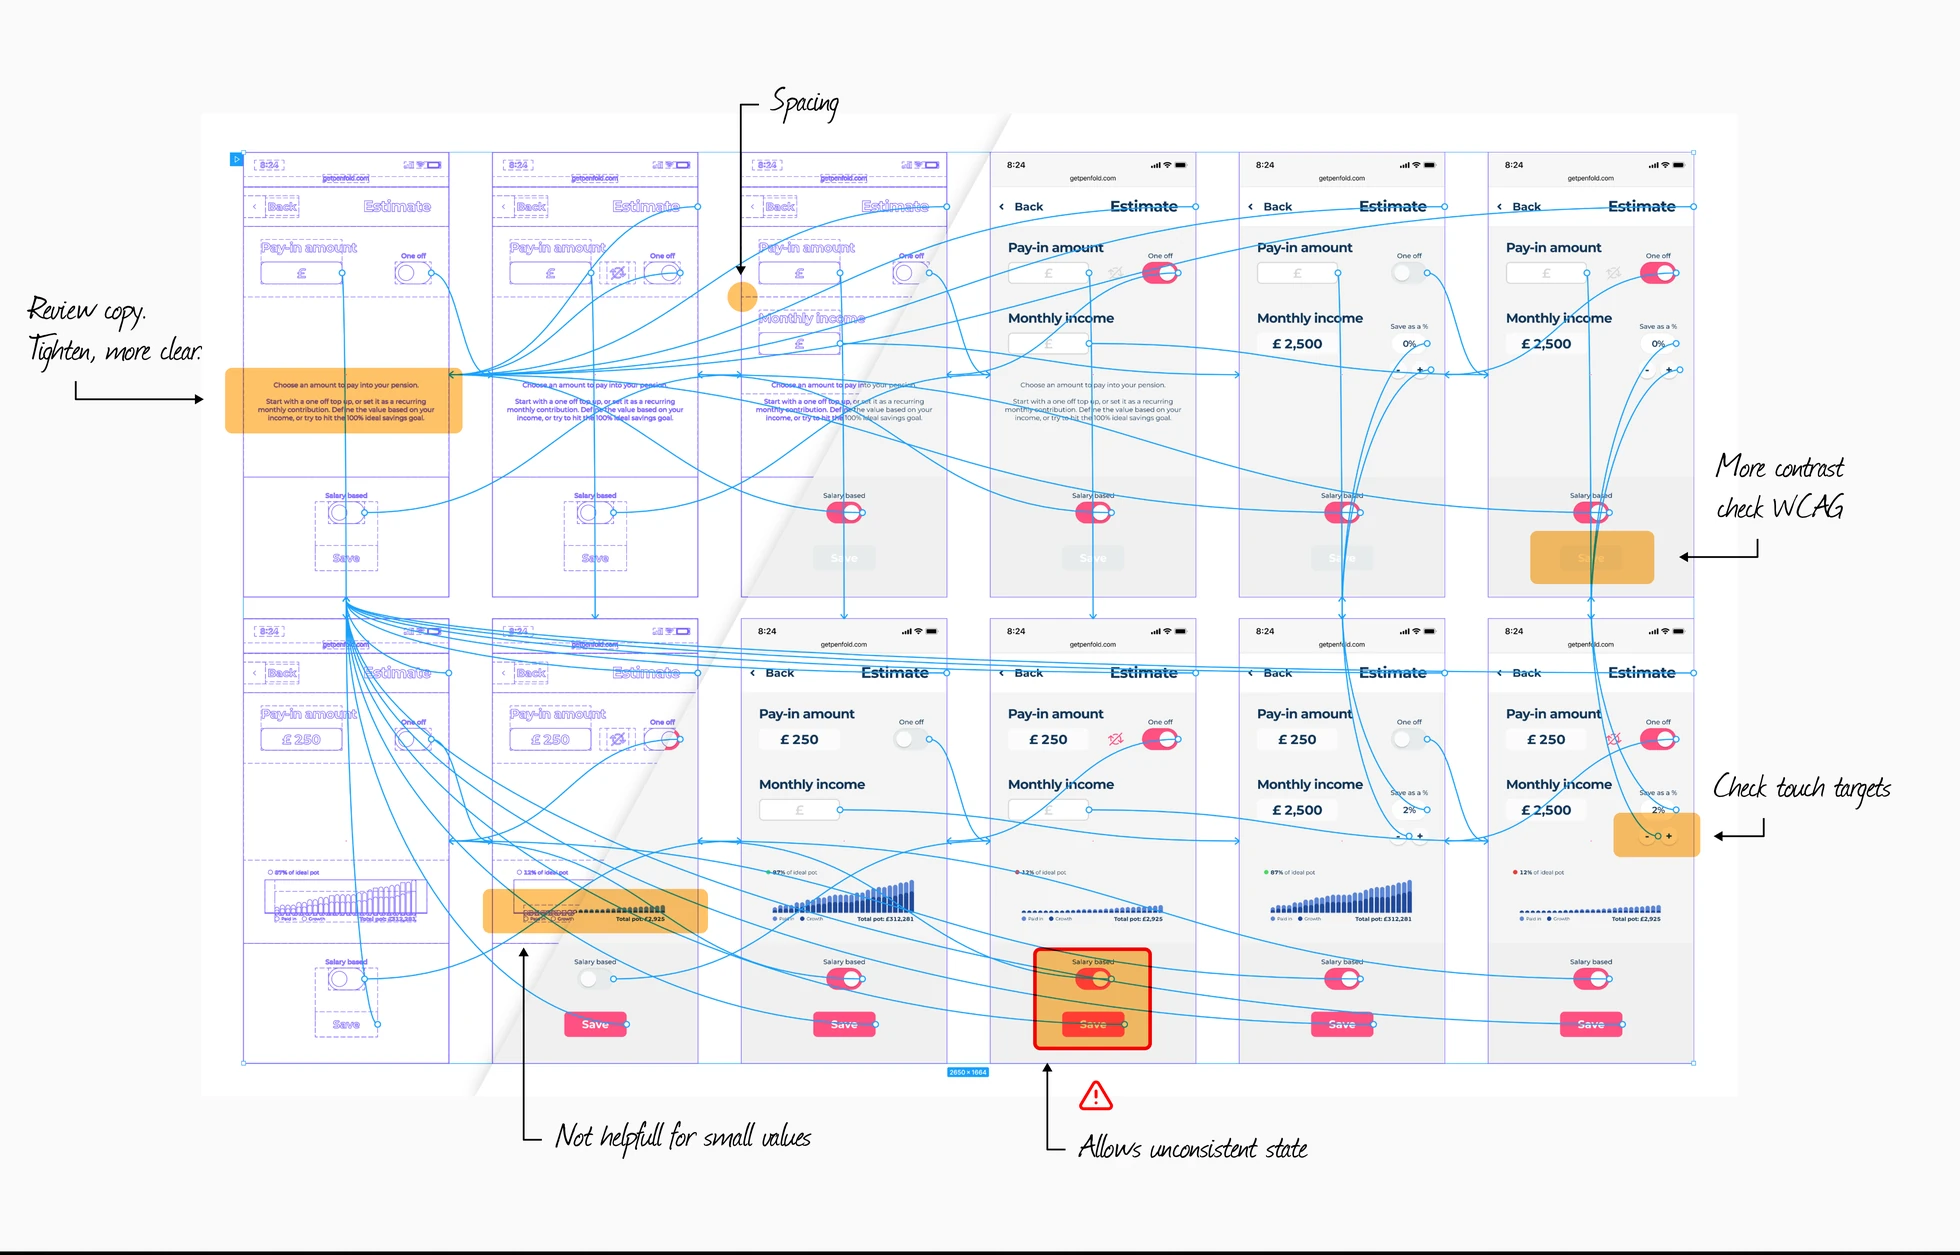
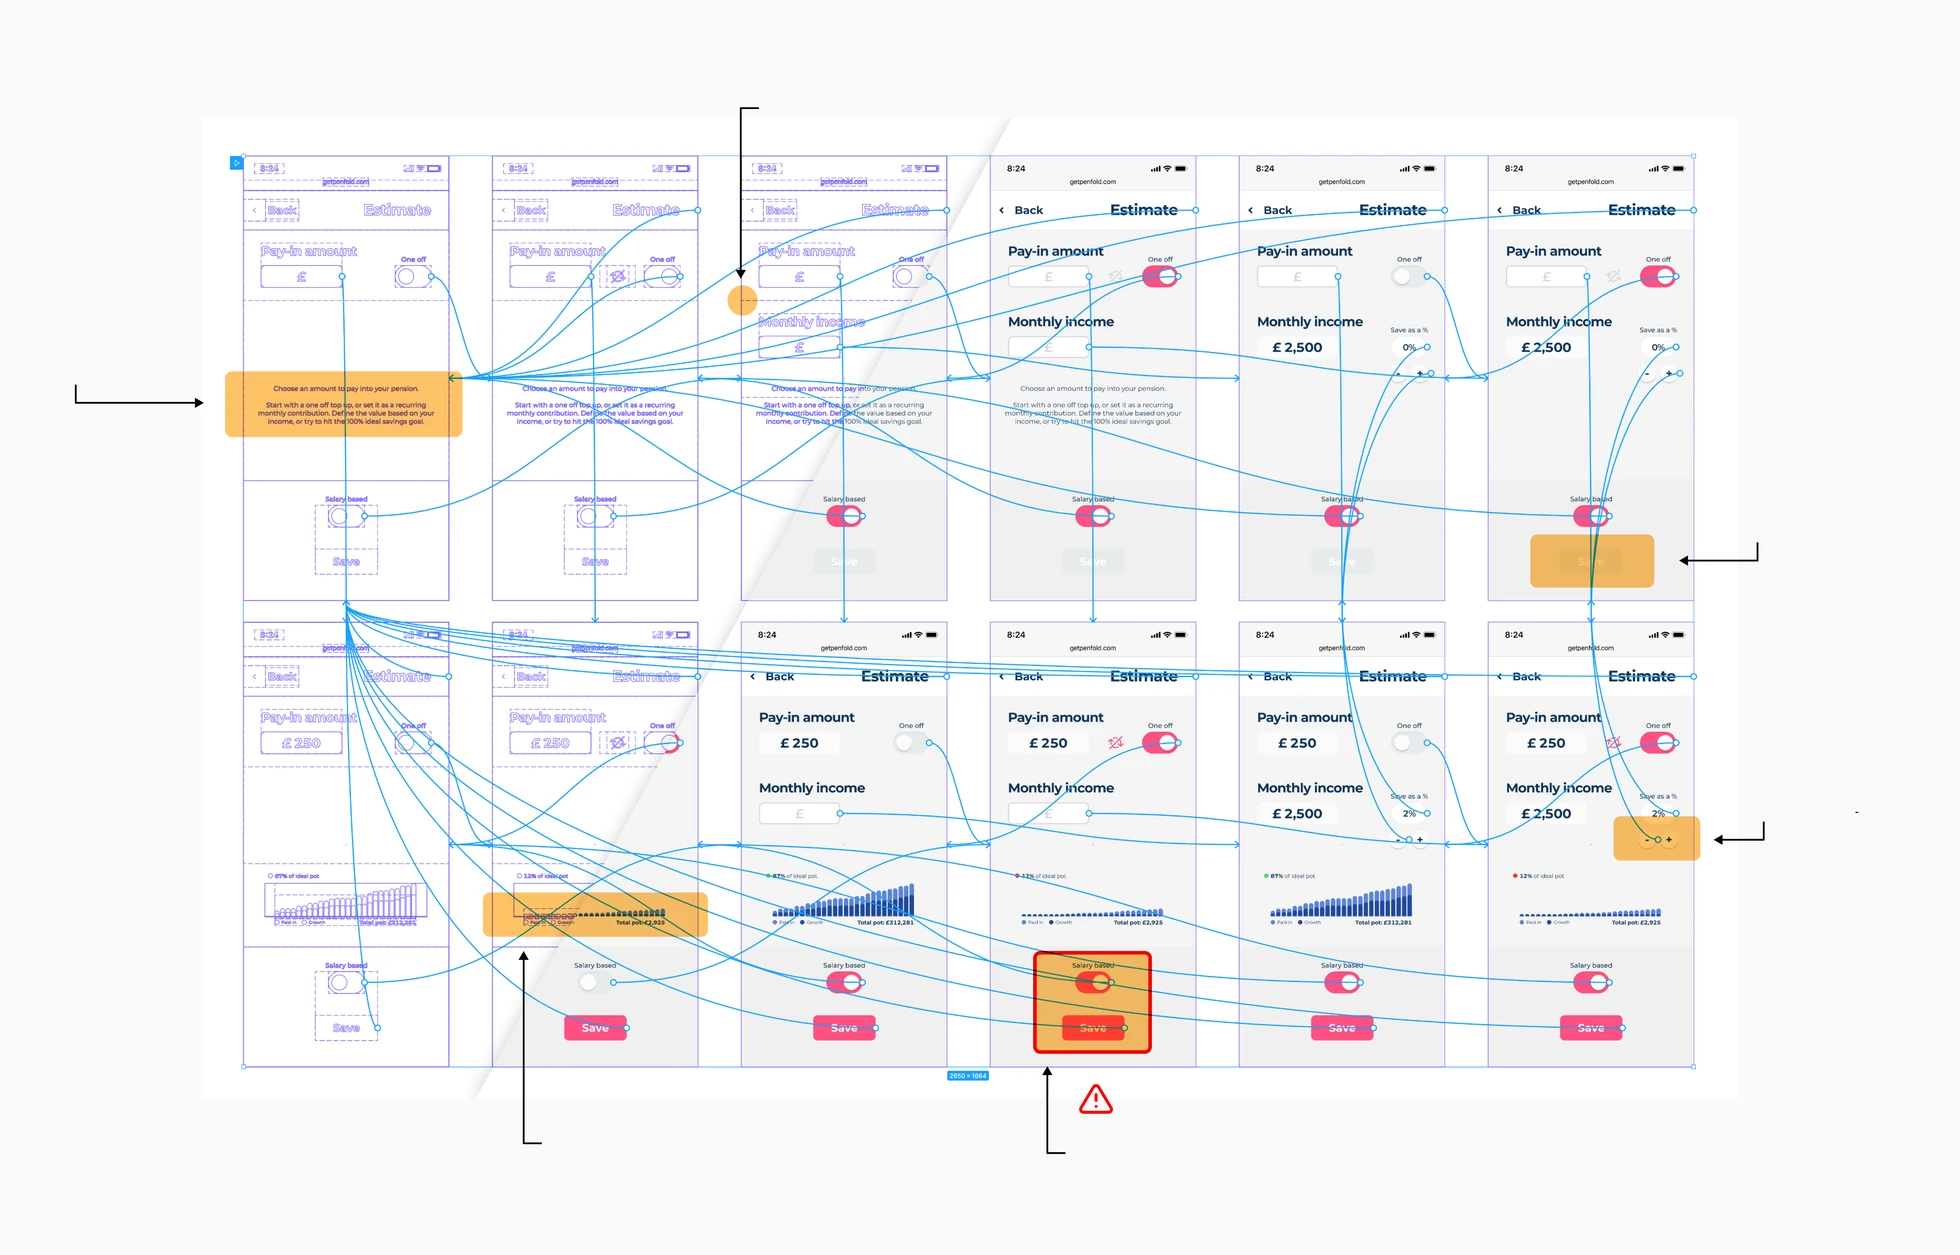
Penfold 2020: montage notes as live text, fix craft crop
The six handwritten notes are HTML text at their Figma positions (Loved by
the King, OFL, stands in for Journal). The export's shadow margin is 76/84,
not 80, so the old crop sat 4 units high.

diff --git a/versions/penfold/2020/site/index.html b/versions/penfold/2020/site/index.html
@@ -47,6 +47,18 @@ body{margin:0;background:#FFFFFF;color:#757575;
 .craft{margin-top:23.6px;height:627.36px}
 .craft img{width:980px;height:627.36px}
 
+/* The montage's six handwritten notes are live text, placed at their Figma positions in the
+   2212 x 1416 "craft" frame (120:5379), scaled by 980/2212. Figma sets them in Journal Regular,
+   44/1.05, black. Journal is not a Google font and could not be shipped, so Loved by the King
+   (OFL, google/fonts) stands in (Journal itself is not named, so every machine draws the same): size-adjust makes its line widths match Journal's and the
+   ascent/descent overrides put its baseline where Journal's was (32.7 of the 46.2 line). */
+@font-face{font-family:"Journal fallback";src:url(fonts/LovedbytheKing.woff2) format("woff2");
+     size-adjust:75%;ascent-override:99.1%;descent-override:40.9%;line-gap-override:0%}
+.craft{position:relative;--k:calc(980 / 2212)}
+.craft .note{position:absolute;white-space:nowrap;color:#000;letter-spacing:0;
+     font:400 calc(44px * var(--k))/calc(46.2px * var(--k)) "Journal fallback",cursive;
+     left:calc(var(--x) * 1px * var(--k));top:calc(var(--y) * 1px * var(--k))}
+
 /* Grey bands of four screens. Each screen is its own box, clipped at the measured radius. */
 .band{position:relative;background:#EEEEEE;height:551.5px}
 .screen{position:absolute;width:191px;height:414px;border-radius:15px;overflow:hidden;
@@ -103,7 +115,14 @@ body{margin:0;background:#FFFFFF;color:#757575;
     <p>New opportunities would be prioritised against our sprint candidates as soon as we'd identify them, and urgent tweaks would be flagged and negotiated into the sprint.</p>
   </section>
 
-  <figure class="craft"><img src="img/craft.webp" width="980" height="627" alt="Wireframes and designs of the Estimate screen, annotated: review copy, spacing, contrast, touch targets"></figure>
+  <figure class="craft"><img src="img/craft.webp" width="980" height="627" alt="Wireframes and designs of the Estimate screen, linked by flow lines, with problem areas highlighted">
+    <p class="note" style="--x:33;--y:327">Review copy.<br>Tighten, more clear.</p>
+    <p class="note" style="--x:1938;--y:505">More contrast<br>check WCAG</p>
+    <p class="note" style="--x:1934;--y:866">Check touch targets</p>
+    <p class="note" style="--x:627;--y:1260">Not helpfull for small values</p>
+    <p class="note" style="--x:1218;--y:1273">Allows unconsistent state</p>
+    <p class="note" style="--x:871;--y:92">Spacing</p>
+  </figure>
 
   <section class="text" style="margin-top:22.8px">
     <h2>User feedback</h2>

diff --git a/versions/penfold/2020/source/NOTES.md b/versions/penfold/2020/source/NOTES.md
@@ -39,3 +39,18 @@ Rebuilt 2026-09-24 with the image2code skill from the Figma section
   on its left, over a different crop. The original hero frame is the plain device photo,
   and that is what is used.
 - Copy is verbatim, typos included ("notifcations", "helpfull" in the montage).
+
+## Montage notes as live text (2026-09-24)
+
+The six handwritten notes on the craft montage ("Review copy. Tighten, more clear.", "More
+contrast check WCAG", "Check touch targets", "Not helpfull for small values", "Allows
+unconsistent state", "Spacing": Figma text nodes 120:5392-5397) are now live HTML text, placed at
+their Figma x/y in the 2212 x 1416 frame scaled by 980/2212, 44/1.05 black. `img/craft.webp` is
+`originals/craft/export.png` with only those six text areas painted out: the frame's #FAFAFA, and
+where a note overlaps Frame 3 (120:5380, "Spacing" and "Tighten") that frame's own 3x export;
+no coloured pixel was touched. The crop was also corrected: the export's shadow margin is 80 left
+and right but 76 top / 84 bottom (shadow offset y 4), so the old crop sat 4 units high and ended in
+a 2 px black strip. Figma's font is Journal (Fontourist), which is not in google/fonts, so it is
+not shipped; Loved by the King (OFL, `site/fonts/`) stands in, with size-adjust 75% to match
+Journal's line widths and ascent/descent overrides that put the baseline where Journal's was.
+The unedited frame stays in `originals/craft/export.png`.
